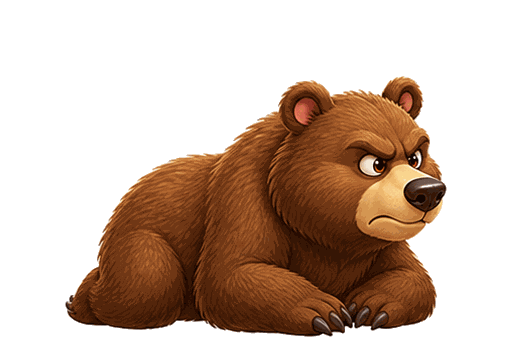
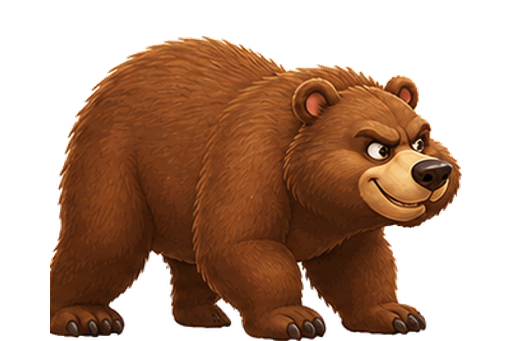
The bear and the ram now pounce at the fox
They used to stand up and wait to be jumped. Now they wake, get up, leap a
short way at the fox, and land - so the gap you were aiming for closes on
you, and the animal is what you have to clear rather than the ground it
was standing on.

Four things make it work.

All six frames share one stage rect and one canvas row for the ground
(`sheet` and `floor`), so a single scale serves the set. That matters
because the leap frames are drawn genuinely airborne - the bear's feet
81px up its own canvas, the ram's 146px - and floor-anchoring floats them
by exactly that much instead of dropping them back onto the grass.

`lungeBy` is the travel: 28px for the bear, 24px for the ram, eased quick
off the mark and settling into the landing. Small on purpose.

The leap POSE holds until the animal has gone PAST the fox, not merely
until the movement ends. Without that the fox meets the tidy four-legged
landing frame, which on the ram is barely half the height - wired that way
it measured 0.621s, the easiest obstacle in the game, which is the exact
opposite of the point.

`plannedHeight` is derived from the frames rather than written by hand, so
the spawner reserves room for the leap's full height and re-cut artwork
cannot quietly make one unjumpable.

Tuned against the levels either side. Mountain now runs 0.325-0.462s
against the woodland's 0.354-0.458s: the bear is 0.329s, tighter than the
woodland badger's 0.358s and the tightest animal in the game, and the ram
[…]

diff --git a/game.js b/game.js
@@ -331,57 +331,54 @@ const THEMES = {
     reactions: {
       hedgehog: ["skunk_1.png", "skunk_2.png", "skunk_3.png",
                  "skunk_4.png", "skunk_5.png"],
-      rabbit: ["bear_1.png", "bear_2.png", "bear_3.png", "bear_4.png"],
+      rabbit: ["bear_1.png", "bear_2.png", "bear_3.png", "bear_4.png", "bear_5.png"],
       rock: ["marmot_1.png", "marmot_2.png"],
-      /* ram_1 and ram_2 came back from the art pass sliced through - the
-       * body cut off at a straight vertical edge, with a piece of another
-       * frame stuck on the left - so the rise runs straight from the
-       * resting sprite to the two good upright poses.
-       */
-      sentry: ["obstacles/ram.png", "ram_3.png", "ram_4.png"],
+      sentry: ["ram_1.png", "ram_2.png", "ram_3.png", "ram_4.png", "ram_5.png"],
     },
     sprites: {
-      /* The bear sleeps across the path and wakes as the fox bears down:
-       * dozing, sitting up, onto all fours, then rearing to swipe. Bigger
-       * than the woodland badger it echoes - 42px growing to 74px, the
-       * tallest thing in the game.
+      /* The bear sleeps across the path, wakes as the fox bears down, gets
+       * up, then LEAPS a short way at him and lands on all fours. `sheet`
+       * is the rect all six frames share and `floor` the canvas row its
+       * feet stand on, so one scale serves the whole set and the leap
+       * frame - drawn with its feet 81px up its own canvas - floats by
+       * exactly that much.
        *
-       * Held back to 1100 rather than the badger's 500. At 76px reared
-       * and appearing earlier its timing window measured 0.26s, tighter
-       * than the field opening that proved too hard for young players.
-       * At 74px arriving here it is 0.31s: harder than the badger's
-       * 0.338s, as a bear should be, without crossing that line.
+       * The leap is only 28px. It is there so the bear reads as coming at
+       * the fox rather than waiting to be jumped; every pixel of it is
+       * room the spawner has already reserved.
        */
       rabbit: {
-        h: 42, rearHeight: 74, availableFrom: 1100, sink: 6,
-        rearNotice: 430, weight: 2.2,
-        trim: { sx: 45, sy: 145, sw: 422, sh: 192 },
-        hitbox: { left: 0.12, right: 0.22, top: 0.10, bottom: 0.02 },
+        h: 50, availableFrom: 1100, sink: 4, weight: 2.2,
+        sheet: { sx: 25, sw: 461 }, floor: 341,
+        rearNotice: 470, riseTime: 0.42,
+        lungeBy: 28, lungeAt: 130, lungeTime: 0.24,
+        trim: { sx: 32, sy: 129, sw: 447, sh: 212 },
+        hitbox: { left: 0.14, right: 0.22, top: 0.12, bottom: 0.02 },
         poses: [
-          { trim: { sx: 45, sy: 145, sw: 422, sh: 192 } },
-          { trim: { sx: 65, sy: 76, sw: 382, sh: 261 } },
-          { trim: { sx: 59, sy: 3, sw: 393, sh: 334 } },
-          { trim: { sx: 117, sy: 3, sw: 278, sh: 334 } },
+          { trim: { sx: 25, sy: 113, sw: 461, sh: 228 } }, // waking
+          { trim: { sx: 50, sy: 36, sw: 412, sh: 305 } },  // up on all fours
+          { trim: { sx: 108, sy: 31, sw: 296, sh: 310 } }, // reared
+          { trim: { sx: 25, sy: 0, sw: 461, sh: 260 } },   // leaping, airborne
+          { trim: { sx: 40, sy: 11, sw: 432, sh: 330 } },  // landed
         ],
       },
-      /* The ram carries the rearing idea through the early game, where the
-       * bear is far too big to appear: it stands to 58px, comfortably
-       * under a tap's 108px apex, and arrives at 500 - the same point the
-       * woodland badger does. Between them the mountain has something
-       * standing up to the fox from the first stage to the last.
+      /* The ram does the same thing earlier and smaller: it is what gives
+       * the mountain something coming at the fox from its first stage,
+       * where the bear is far too big to appear.
        */
       sentry: {
-        h: 40, rearHeight: 70, availableFrom: 500, sink: 5,
-        // Rises over half a second from 470px out. At the shared 0.28s it
-        // snapped upright between frames and was never really seen - and
-        // with two of its four rise frames unusable it needs the room.
-        rearNotice: 470, riseTime: 0.5, weight: 2,
-        trim: { sx: 14, sy: 11, sw: 483, sh: 330 },
-        hitbox: { left: 0.12, right: 0.20, top: 0.10, bottom: 0.02 },
+        h: 40, availableFrom: 500, sink: 4, weight: 2,
+        sheet: { sx: 98, sw: 311 }, floor: 341,
+        rearNotice: 430, riseTime: 0.38,
+        lungeBy: 24, lungeAt: 130, lungeTime: 0.22,
+        trim: { sx: 106, sy: 180, sw: 299, sh: 161 },
+        hitbox: { left: 0.14, right: 0.20, top: 0.12, bottom: 0.02 },
         poses: [
-          { trim: { sx: 14, sy: 11, sw: 483, sh: 330 } }, // on all fours
-          { trim: { sx: 198, sy: 11, sw: 181, sh: 330 } },
-          { trim: { sx: 149, sy: 11, sw: 213, sh: 330 } },
+          { trim: { sx: 125, sy: 113, sw: 261, sh: 228 } }, // head up
+          { trim: { sx: 119, sy: 41, sw: 274, sh: 300 } },  // reared
+          { trim: { sx: 98, sy: 139, sw: 272, sh: 181 } },  // crouched to spring
+          { trim: { sx: 98, sy: 0, sw: 272, sh: 195 } },    // leaping, airborne
+          { trim: { sx: 103, sy: 175, sw: 306, sh: 166 } }, // landed
         ],
       },
       /* The skunk is the one animal in the game NOT flipped: it is drawn
@@ -1097,6 +1094,20 @@ function bindTheme() {
       return { key, trim: poses[i].trim, wScale: poses[i].wScale || 1 };
     });
   }
+  /* A pouncing animal is tallest in mid-leap, and that is the height the
+   * spawner has to leave room to clear. Derived from the frames rather
+   * than written by hand, so re-cut artwork cannot silently make one
+   * unjumpable.
+   */
+  for (const type of Object.values(OBSTACLE_TYPES)) {
+    if (!type.lungeBy || !type.hide || !type.hide.length) continue;
+    const px = type.h / type.trim.sh;
+    const floor = type.floor || (type.trim.sy + type.trim.sh);
+    type.rearHeight = Math.max(
+      type.h,
+      ...type.hide.map((p) => (floor - p.trim.sy) * px)
+    );
+  }
   DOG.frames = THEME.chaser;
   ACORN.src = THEME.collectible.item;
   for (const [name, type] of Object.entries(OBSTACLE_TYPES)) {
@@ -1159,7 +1170,7 @@ function applyThemeSprites() {
   }
   // Anything that rears is too tall to be half of a one-jump close pair.
   for (const t of Object.values(OBSTACLE_TYPES)) {
-    if (t.rearHeight) t.pairable = false;
+    if (t.rearHeight || t.lungeBy) t.pairable = false;
   }
 }
 
@@ -1793,10 +1804,20 @@ class Obstacle {
   constructor(typeName, x, groundY) {
     this.typeName = typeName;
     this.type = OBSTACLE_TYPES[typeName];
+    this.groundY = groundY;
     this.w = this.type.w;
     this.h = this.type.h;
     this.x = x;
     this.y = groundY - this.h + (this.type.sink || 0);
+    /* Pouncing animals are drawn from one shared stage rect at a constant
+     * scale, so `anchorX` - where that stage sits in the world - is what
+     * scrolls, and each frame's own place within it follows.
+     */
+    if (this.type.lungeBy) {
+      this.anchorX = x;
+      this.phase = "resting";
+      this.leap = 0;
+    }
     this.passed = false; // hook for later phases (chasing behaviour, etc.)
     this.hideLevel = 0;  // 0 normal, 1 crouching, 2 fully tucked
     this.hideHold = 0;   // keeps the pose a moment after the fox passes
@@ -1806,8 +1827,90 @@ class Obstacle {
 
   update(dt, speed, fox, images) {
     this.x -= speed * dt;
-    if (this.type.rearHeight && fox) this.updateRear(dt, fox, images);
+    if (this.type.lungeBy && fox) this.updatePounce(dt, speed, fox, images);
+    else if (this.type.rearHeight && fox) this.updateRear(dt, fox, images);
     else if (this.type.hide && fox) this.updateHide(dt, fox, images);
+  }
+
+  /* Where one frame of a pounce sequence sits, in world pixels.
+   * Every frame shares a stage rect and a single scale, so the artist's
+   * own baseline is kept: the leap frames are drawn genuinely airborne -
+   * the bear's feet 81px up its canvas, the ram's 146px - and land at the
+   * right height above the ground without any per-frame fudging.
+   */
+  poseGeometry(frame) {
+    const t = this.type;
+    const px = t.h / t.trim.sh;                  // constant across the set
+    const sheet = t.sheet || { sx: t.trim.sx, sw: t.trim.sw };
+    const floor = t.floor || (t.trim.sy + t.trim.sh);
+    // Mirrored sets measure their offset from the stage's other edge, or
+    // the animal slides sideways every time the frame changes.
+    const dx = t.flip
+      ? (sheet.sx + sheet.sw) - (frame.sx + frame.sw)
+      : frame.sx - sheet.sx;
+    return {
+      w: frame.sw * px,
+      h: frame.sh * px,
+      x: this.anchorX + dx * px,
+      lift: (floor - (frame.sy + frame.sh)) * px, // 0 when its feet are down
+    };
+  }
+
+  /* Wake, get up, then LEAP a short way at the fox and land. The leap is
+   * deliberately small - it is there so the animal reads as coming at him
+   * rather than waiting to be jumped, and every px of it is room the
+   * spawner has already reserved (see plannedHeight and lungeBy).
+   */
+  updatePounce(dt, speed, fox, images) {
+    const t = this.type;
+    const poses = t.hide;
+    if (!poses || poses.length < 3) return;
+    this.anchorX -= speed * dt;
+
+    const fb = fox.getHitbox();
+    const gap = this.x - (fb.x + fb.w);
+    if (this.phase === "resting" && gap < (t.rearNotice || OBSTACLE_REAR.noticeDistance)) {
+      this.phase = "rising";
+    }
+    if (this.phase === "rising") {
+      this.rear = Math.min(1, this.rear + dt / (t.riseTime || OBSTACLE_REAR.riseTime));
+      if (this.rear >= 1) this.phase = "ready";
+    }
+    if ((this.phase === "rising" || this.phase === "ready") && gap < (t.lungeAt || 160)) {
+      this.phase = "leaping";
+      this.leap = 0;
+    }
+    if (this.phase === "leaping") {
+      const was = this.leap;
+      this.leap = Math.min(1, this.leap + dt / (t.lungeTime || 0.24));
+      // Ease out: off the mark quickly, settling into the landing.
+      const ease = (v) => 1 - (1 - v) * (1 - v);
+      this.anchorX -= t.lungeBy * (ease(this.leap) - ease(was));
+      /* Stay in the air until it has actually gone past him. The pose the
+       * fox has to clear should be the leap - that is the whole point of
+       * a pounce - and not the tidy four-legged landing after it, which
+       * on the ram is barely half the height.
+       */
+      if (this.leap >= 1 && gap < -this.w) this.phase = "landed";
+    }
+
+    // Last two poses are the leap and the landing; the rest are the rise.
+    const rise = Math.max(1, poses.length - 2);
+    let idx;
+    if (this.phase === "resting") idx = -1;
+    else if (this.phase === "rising") idx = Math.min(rise - 1, Math.floor(this.rear * rise));
+    else if (this.phase === "ready") idx = rise - 1;
+    else if (this.phase === "leaping") idx = poses.length - 2;
+    else idx = poses.length - 1;
+
+    this.hideLevel = idx + 1;
+    this.hideImage = idx >= 0 ? images[poses[idx].key] : null;
+    const frame = idx >= 0 ? poses[idx].trim : t.trim;
+    const g = this.poseGeometry(frame);
+    this.w = g.w;
+    this.h = g.h;
+    this.x = g.x;
+    this.y = this.groundY - this.h - g.lift + (t.sink || 0);
   }
 
   // Stand up as the fox approaches, growing the drawn size AND the hitbox.
@@ -1896,7 +1999,11 @@ class Obstacle {
       const pose = this.type.hide[this.hideLevel - 1];
       img = this.hideImage;
       t = pose.trim;
-      if (this.type.rearHeight) {
+      if (this.type.lungeBy) {
+        // updatePounce already placed and sized this frame.
+        w = this.w;
+        h = this.h;
+      } else if (this.type.rearHeight) {
         // Rearing types already grew this.h; draw the pose at full height.
         h = this.h;
         w = h * (t.sw / t.sh);

diff --git a/index.html b/index.html
@@ -12,7 +12,7 @@
   <meta name="mobile-web-app-capable" content="yes">
   <meta name="apple-mobile-web-app-status-bar-style" content="black-translucent">
   <meta name="apple-mobile-web-app-title" content="Fox Runner">
-  <link rel="stylesheet" href="style.css?v=73">
+  <link rel="stylesheet" href="style.css?v=74">
 </head>
 <body>
   <main class="game-wrap">
@@ -31,7 +31,7 @@
     </form>
   </main>
   <div class="rotate-hint">Rotate your phone to play</div>
-  <script src="game.js?v=73"></script>
+  <script src="game.js?v=74"></script>
   <script>
     // Offline support + installability (needs HTTPS or localhost).
     if ("serviceWorker" in navigator) {

diff --git a/sw.js b/sw.js
@@ -7,8 +7,8 @@
 //    content under the same name, so this cache survives shell bumps and
 //    phones never re-download the artwork. Bump ART_VERSION only if an
 //    asset's content actually changes under an existing filename.
-const SHELL_VERSION = "v41";
-const ART_VERSION = "v7";
+const SHELL_VERSION = "v42";
+const ART_VERSION = "v8";
 const SHELL_CACHE = `fox-runner-shell-${SHELL_VERSION}`;
 const ART_CACHE = `fox-runner-art-${ART_VERSION}`;
 const KEEP = [SHELL_CACHE, ART_CACHE];

diff --git a/assets/themes/mountain/README.md b/assets/themes/mountain/README.md
@@ -19,7 +19,7 @@ The ledge is intended to replace the normal grass and dirt layers for this theme
 ## Obstacles and reactions
 
 - `obstacles/marmot.png` with `reactions/marmot_1.png` and `marmot_2.png`
-- `obstacles/ram.png` with `reactions/ram_1.png` through `ram_4.png`
+- `obstacles/ram.png` with `reactions/ram_1.png` through `ram_5.png` - wake, stand, pounce, land
 - `obstacles/boulder.png`, `log_pine.png`, and `spire.png`
 
 ## Flyer
@@ -51,8 +51,8 @@ tuning carries across settings. In this theme they are cast as:
 | --- | --- |
 | `hedgehog` | skunk (five poses, ending in the spray) |
 | `rock` | marmot (two cowering poses) |
-| `sentry` | ram (rears to 58px, from score 500) |
-| `rabbit` | bear (rears to 74px, from score 1100) |
+| `sentry` | ram (wakes, pounces, lands - from score 500) |
+| `rabbit` | bear (wakes, pounces, lands - from score 1100) |
 | `log` | fallen pine |
 | `stump` | rock spire |
 | `boulder` | scree pile |
@@ -73,11 +73,9 @@ resting width would balloon it at every step.
 
 ## Known art problems
 
-- `reactions/ram_1.png` and `ram_2.png` are sliced through: the ram's body
-  ends at a straight vertical edge and a piece of another frame is stuck to
-  its left. Both are unused - the ram rises straight from `obstacles/ram.png`
-  to `ram_3` and `ram_4` - so a regenerated pair would give it a smoother
-  rise. Three poses over half a second is watchable; five would be better.
+- The ram and bear reaction sets were regenerated as six-pose wake-to-pounce
+  sequences, ending with a four-legged landing frame. They are clean - the
+  sliced ram frames noted here before are gone.
 - `obstacles/spire.png` carries a fragment of the pine log to the left of the
   spire, and `obstacles/boulder.png` a sliver of another frame at its right
   edge. Both are excluded by the trims in `game.js` rather than erased.
@@ -94,3 +92,37 @@ level can be checked without playing up to it. It sticks (a tablet only
 needs the URL once); `?test=0` turns it off again. It is scaffolding -
 `TEST_LEVELS` in `game.js`, and the two short blocks that read it, come out
 before the game goes to real players.
+
+## How a pounce is put together
+
+The bear and the ram do not just stand up: they wake, get up, LEAP a short
+way at the fox, and land. Four things in `game.js` make that work.
+
+`sheet` and `floor` say that all six frames share one stage rect and one
+canvas row for the ground, so a single scale serves the set. That matters
+because the leap frames are drawn genuinely airborne - the bear's feet 81px
+up its own canvas, the ram's 146px - and floor-anchoring floats them by
+exactly that much instead of dumping them back on the grass.
+
+`lungeBy` is how far it actually travels at the fox: 28px for the bear,
+24px for the ram, eased so it is quick off the mark and settles into the
+landing. Small on purpose. The point is that it reads as coming at him.
+
+The leap POSE is held until the animal has gone past the fox, not just
+until the movement finishes. Without that the fox meets the tidy landing
+frame, which on the ram is barely half the height, and the whole pounce
+counts for nothing - it measured as the easiest obstacle in the game.
+
+`plannedHeight` is derived from the frames rather than written by hand, so
+the spawner reserves room for the leap's full height and re-cut artwork
+cannot quietly make one unjumpable.
+
+Measured tap windows, against the levels either side:
+
+| | tightest | widest |
+| --- | --- | --- |
+| field | 0.425s | 0.496s |
+| woodland | 0.354s | 0.458s |
+| mountain | 0.325s | 0.462s |
+
+The bear is 0.329s and the ram 0.408s.
